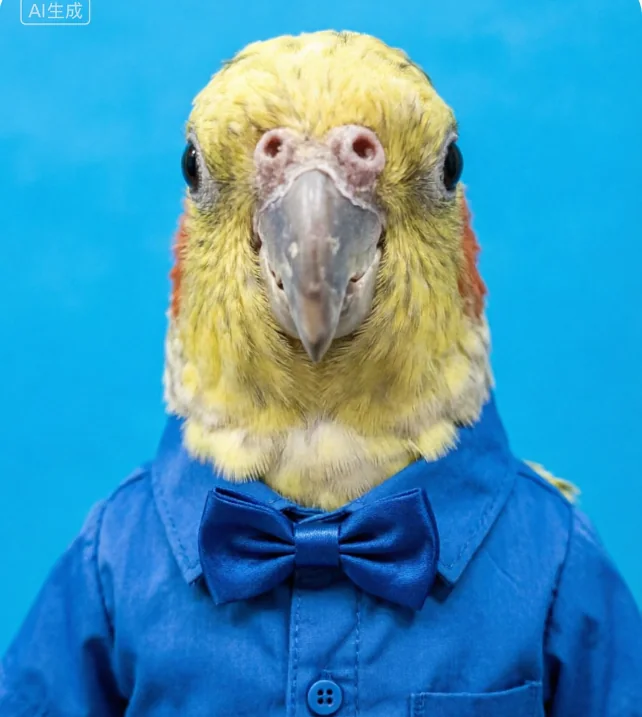
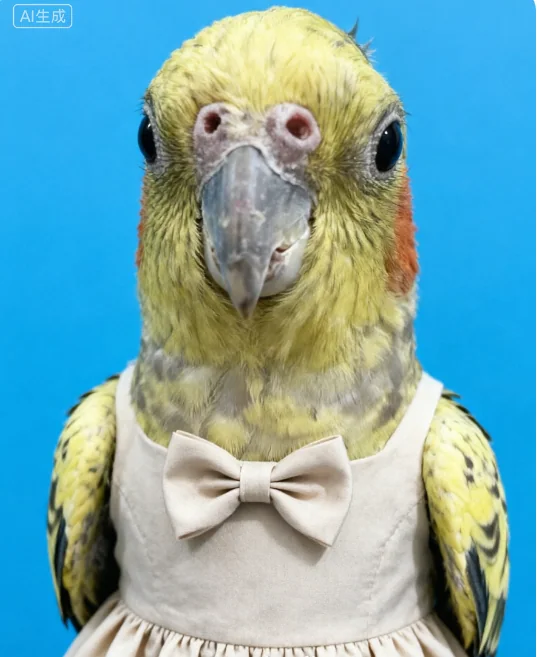
证件照换成小裙子那张

diff --git a/xiaojudou/index.html b/xiaojudou/index.html
@@ -87,8 +87,8 @@
                  两张并排，宽度由 .profile__shots 定，加第三张就是分三等份。 -->
             <div class="profile__shots">
               <figure class="profile__portrait">
-                <img src="assets/xiaojudou-id.webp" width="642" height="717" loading="lazy"
-                     alt="小橘豆的证件照：穿着蓝衬衫、系着蓝领结，正面看着镜头">
+                <img src="assets/xiaojudou-id.webp" width="537" height="657" loading="lazy"
+                     alt="小橘豆的证件照：穿着米色小裙子、系着蝴蝶结，正面看着镜头">
                 <figcaption class="profile__label">证件照</figcaption>
               </figure>
 
